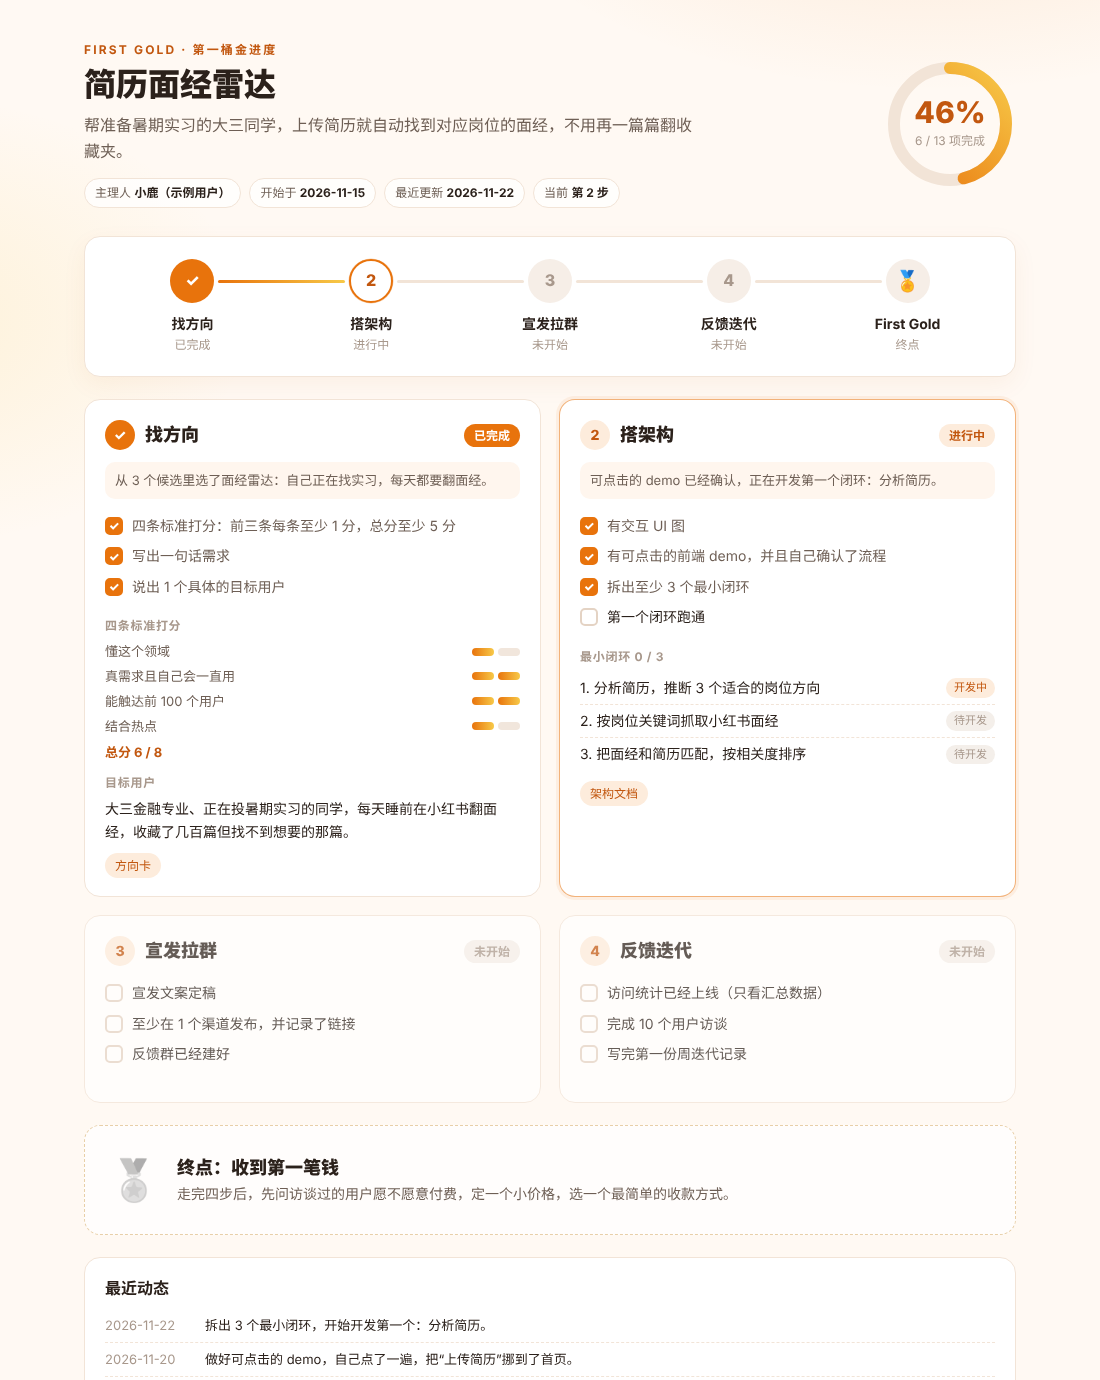
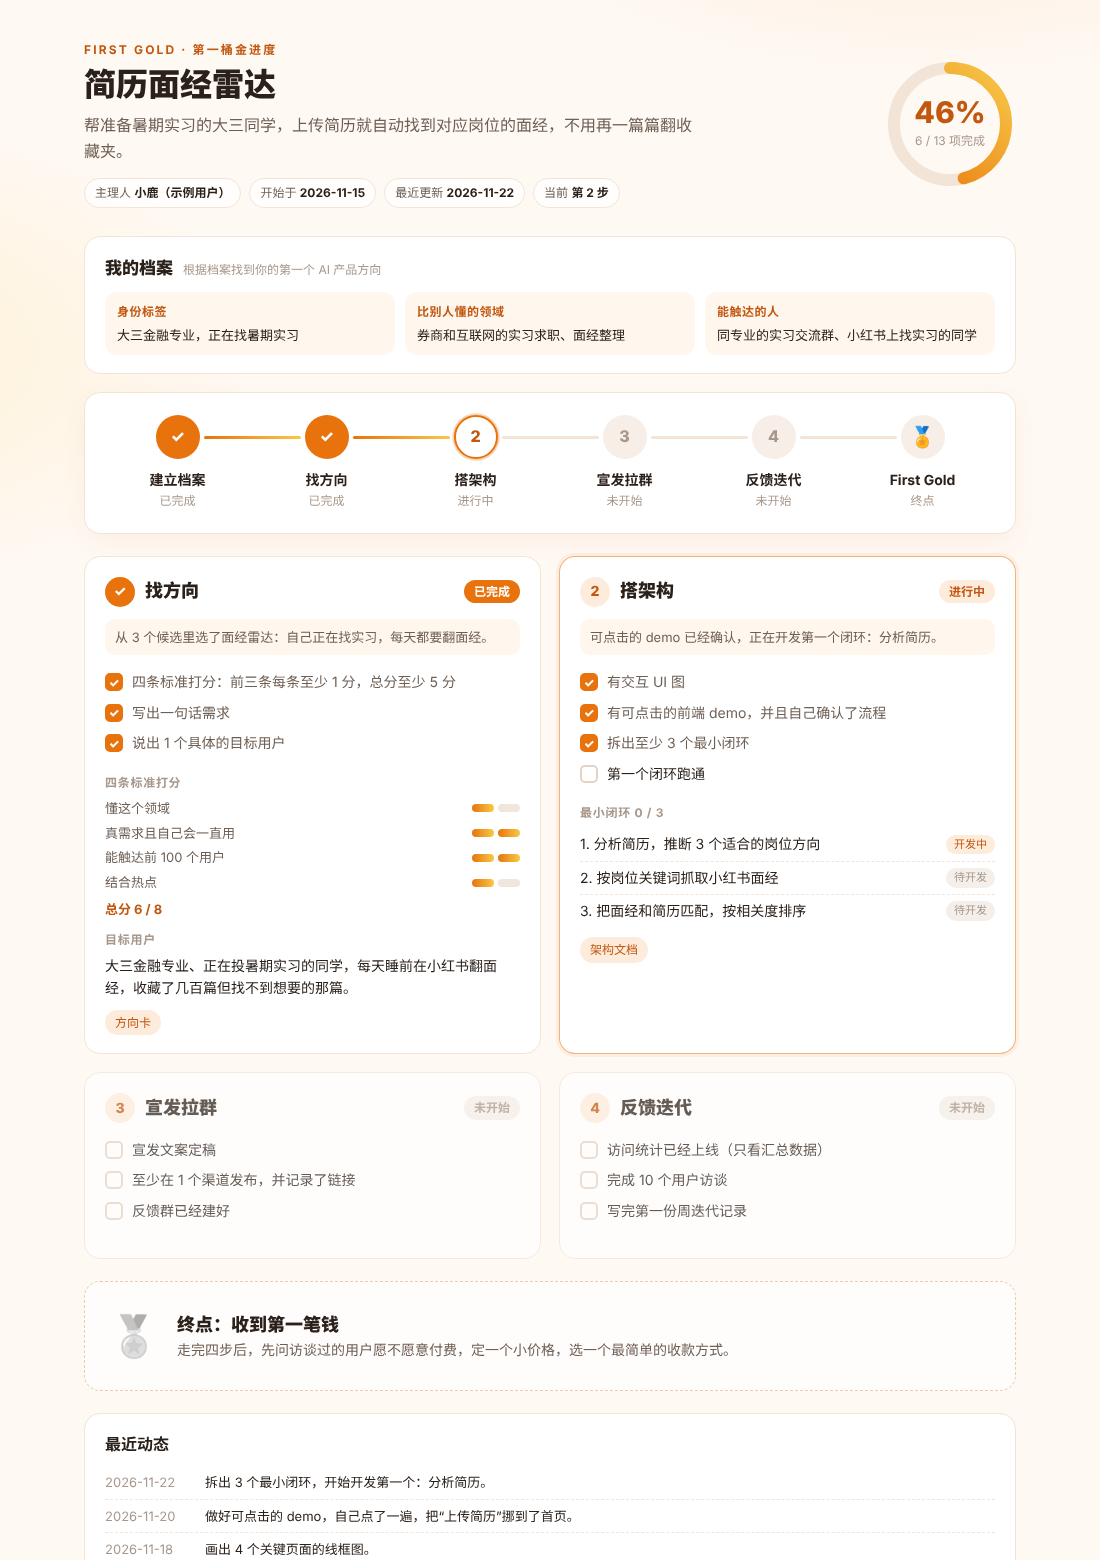
Add step 0 (build your profile) and new slogan
- Slogan: 根据档案找到你的第一个 AI 产品方向
- Open the progress page before asking any questions
- Step 0 builds profile.md; step 1 proposes directions from the profile
- Progress page: "我的档案" card and a 建立档案 node in the journey
- README, schema, example and preview updated

Claude-Session: https://claude.ai/code/session_011SH2MZkqdij7cmQFzhZ7bm

diff --git a/skills/first-gold/assets/progress-template.html b/skills/first-gold/assets/progress-template.html
@@ -39,6 +39,18 @@ h1{font-size:32px;line-height:1.25;margin:6px 0 8px;font-weight:800}
 .ring .num strong{font-size:30px;font-weight:800;color:var(--orange-deep);line-height:1}
 .ring .num span{font-size:12px;color:var(--ink-3);margin-top:4px}
 
+/* profile */
+.profile{background:var(--card);border:1px solid var(--line);border-radius:var(--radius);padding:18px 20px;margin-bottom:18px}
+.profile-head{display:flex;align-items:baseline;gap:10px;margin-bottom:10px;flex-wrap:wrap}
+.profile-head h2{font-size:17px;font-weight:800}
+.profile-head span{font-size:12px;color:var(--ink-3)}
+.profile-grid{display:grid;grid-template-columns:repeat(3,1fr);gap:10px}
+.pf{background:#FFF6EE;border-radius:12px;padding:10px 12px}
+.pf b{display:block;font-size:12px;color:var(--orange-deep);margin-bottom:4px;letter-spacing:.04em}
+.pf p{font-size:13px;color:var(--ink);line-height:1.55}
+.profile.empty{border-style:dashed}
+.profile.empty p.hint{font-size:14px;color:var(--ink-2)}
+
 /* journey */
 .journey{display:flex;align-items:flex-start;background:var(--card);border:1px solid var(--line);border-radius:var(--radius);padding:22px 18px;margin-bottom:22px;box-shadow:0 8px 24px rgba(194,87,15,.06)}
 .node{flex:1;display:flex;flex-direction:column;align-items:center;text-align:center;position:relative;min-width:0}
@@ -129,6 +141,7 @@ footer{text-align:center;font-size:12px;color:var(--ink-3);margin-top:26px}
 
 @media (max-width:760px){
   .grid{grid-template-columns:1fr}
+  .profile-grid{grid-template-columns:1fr}
   header{flex-direction:column-reverse;align-items:flex-start}
   h1{font-size:26px}
   .journey{overflow-x:auto}
@@ -146,13 +159,14 @@ footer{text-align:center;font-size:12px;color:var(--ink-3);margin-top:26px}
   "version": 1,
   "project": "我的第一个 AI 产品",
   "slug": "my-first-product",
-  "one_liner": "还没想好方向？先从第 1 步开始。",
+  "one_liner": "根据档案找到你的第一个 AI 产品方向。",
   "owner": "",
   "started": "",
   "updated": "",
-  "current_step": 1,
+  "current_step": 0,
+  "profile": {"identity": "", "expertise": "", "reach": ""},
   "steps": [
-    {"id": 1, "name": "找方向", "status": "in-progress", "note": "", "checklist": [
+    {"id": 1, "name": "找方向", "status": "not-started", "note": "", "checklist": [
       {"text": "四条标准打分：前三条每条至少 1 分，总分至少 5 分", "done": false},
       {"text": "写出一句话需求", "done": false},
       {"text": "说出 1 个具体的目标用户", "done": false}], "outputs": []},
@@ -201,7 +215,7 @@ footer{text-align:center;font-size:12px;color:var(--ink-3);margin-top:26px}
   var total = 0, done = 0;
   steps.forEach(function(s){ arr(s.checklist).forEach(function(c){ total++; if (c.done) done++; }); });
   var pct = total ? Math.round(done / total * 100) : 0;
-  var cur = D.current_step || 1;
+  var cur = (D.current_step === 0) ? 0 : (D.current_step || 1);
   var fg = D.first_gold || {};
 
   var h = '';
@@ -215,7 +229,7 @@ footer{text-align:center;font-size:12px;color:var(--ink-3);margin-top:26px}
   if (has(D.owner)) h += '<span class="chip">主理人 <b>' + esc(D.owner) + '</b></span>';
   if (has(D.started)) h += '<span class="chip">开始于 <b>' + esc(D.started) + '</b></span>';
   if (has(D.updated)) h += '<span class="chip">最近更新 <b>' + esc(D.updated) + '</b></span>';
-  h += '<span class="chip">当前 <b>' + (cur > 4 ? '冲刺第一桶金' : '第 ' + cur + ' 步') + '</b></span>';
+  h += '<span class="chip">当前 <b>' + (cur > 4 ? '冲刺第一桶金' : (cur === 0 ? '第 0 步 · 建立档案' : '第 ' + cur + ' 步')) + '</b></span>';
   h += '</div></div>';
   h += '<div class="ring"><svg width="132" height="132"><defs><linearGradient id="g" x1="0" y1="0" x2="1" y2="1"><stop offset="0" stop-color="#E8730C"/><stop offset="1" stop-color="#F7C948"/></linearGradient></defs>' +
        '<circle cx="66" cy="66" r="' + R + '" fill="none" stroke="#F2E4D7" stroke-width="12"/>' +
@@ -223,8 +237,21 @@ footer{text-align:center;font-size:12px;color:var(--ink-3);margin-top:26px}
        '<div class="num"><strong>' + pct + '%</strong><span>' + done + ' / ' + total + ' 项完成</span></div></div>';
   h += '</header>';
 
+  // profile
+  var pf = D.profile || {};
+  var hasPf = has(pf.identity) || has(pf.expertise) || has(pf.reach);
+  if (hasPf) {
+    h += '<section class="profile"><div class="profile-head"><h2>我的档案</h2><span>根据档案找到你的第一个 AI 产品方向</span></div><div class="profile-grid">' +
+         '<div class="pf"><b>身份标签</b><p>' + (has(pf.identity) ? esc(pf.identity) : '–') + '</p></div>' +
+         '<div class="pf"><b>比别人懂的领域</b><p>' + (has(pf.expertise) ? esc(pf.expertise) : '–') + '</p></div>' +
+         '<div class="pf"><b>能触达的人</b><p>' + (has(pf.reach) ? esc(pf.reach) : '–') + '</p></div></div></section>';
+  } else {
+    h += '<section class="profile empty"><div class="profile-head"><h2>第 0 步：建立档案</h2></div><p class="hint">先告诉 First Gold 三件事：你的专业或身份标签、你比大多数人都懂的领域、你最容易触达的人。First Gold 会根据档案找到你的第一个 AI 产品方向。</p></section>';
+  }
+
   // journey
   h += '<div class="journey">';
+  h += '<div class="node ' + (hasPf ? 'done' : 'in-progress') + '"><div class="dot">' + (hasPf ? '✓' : '0') + '</div><div class="label">建立档案</div><div class="sub">' + (hasPf ? '已完成' : '进行中') + '</div></div>';
   steps.forEach(function(s){
     var st = s.status || 'not-started';
     var icon = st === 'done' ? '✓' : (st === 'skipped' ? '–' : s.id);
@@ -267,7 +294,7 @@ footer{text-align:center;font-size:12px;color:var(--ink-3);margin-top:26px}
   if (logs.length) { h += '<ul>'; logs.forEach(function(l){ h += '<li><time>' + esc(l.date) + '</time><span>' + esc(l.text) + '</span></li>'; }); h += '</ul>'; }
   else h += '<p class="empty">还没有记录。和 First Gold 聊完第一轮后，这里会出现你的进展。</p>';
   h += '</div>';
-  h += '<footer>由 First Gold Skill 生成 · 每轮对话后自动更新</footer>';
+  h += '<footer>First Gold · 根据档案找到你的第一个 AI 产品方向 · 每轮对话后自动更新</footer>';
 
   document.getElementById('app').innerHTML = h;
 

diff --git a/examples/mianjing-radar/progress.html b/examples/mianjing-radar/progress.html
@@ -39,6 +39,18 @@ h1{font-size:32px;line-height:1.25;margin:6px 0 8px;font-weight:800}
 .ring .num strong{font-size:30px;font-weight:800;color:var(--orange-deep);line-height:1}
 .ring .num span{font-size:12px;color:var(--ink-3);margin-top:4px}
 
+/* profile */
+.profile{background:var(--card);border:1px solid var(--line);border-radius:var(--radius);padding:18px 20px;margin-bottom:18px}
+.profile-head{display:flex;align-items:baseline;gap:10px;margin-bottom:10px;flex-wrap:wrap}
+.profile-head h2{font-size:17px;font-weight:800}
+.profile-head span{font-size:12px;color:var(--ink-3)}
+.profile-grid{display:grid;grid-template-columns:repeat(3,1fr);gap:10px}
+.pf{background:#FFF6EE;border-radius:12px;padding:10px 12px}
+.pf b{display:block;font-size:12px;color:var(--orange-deep);margin-bottom:4px;letter-spacing:.04em}
+.pf p{font-size:13px;color:var(--ink);line-height:1.55}
+.profile.empty{border-style:dashed}
+.profile.empty p.hint{font-size:14px;color:var(--ink-2)}
+
 /* journey */
 .journey{display:flex;align-items:flex-start;background:var(--card);border:1px solid var(--line);border-radius:var(--radius);padding:22px 18px;margin-bottom:22px;box-shadow:0 8px 24px rgba(194,87,15,.06)}
 .node{flex:1;display:flex;flex-direction:column;align-items:center;text-align:center;position:relative;min-width:0}
@@ -129,6 +141,7 @@ footer{text-align:center;font-size:12px;color:var(--ink-3);margin-top:26px}
 
 @media (max-width:760px){
   .grid{grid-template-columns:1fr}
+  .profile-grid{grid-template-columns:1fr}
   header{flex-direction:column-reverse;align-items:flex-start}
   h1{font-size:26px}
   .journey{overflow-x:auto}
@@ -151,6 +164,11 @@ footer{text-align:center;font-size:12px;color:var(--ink-3);margin-top:26px}
   "started": "2026-11-15",
   "updated": "2026-11-22",
   "current_step": 2,
+  "profile": {
+    "identity": "大三金融专业，正在找暑期实习",
+    "expertise": "券商和互联网的实习求职、面经整理",
+    "reach": "同专业的实习交流群、小红书上找实习的同学"
+  },
   "steps": [
     {
       "id": 1,
@@ -349,7 +367,7 @@ footer{text-align:center;font-size:12px;color:var(--ink-3);margin-top:26px}
   var total = 0, done = 0;
   steps.forEach(function(s){ arr(s.checklist).forEach(function(c){ total++; if (c.done) done++; }); });
   var pct = total ? Math.round(done / total * 100) : 0;
-  var cur = D.current_step || 1;
+  var cur = (D.current_step === 0) ? 0 : (D.current_step || 1);
   var fg = D.first_gold || {};
 
   var h = '';
@@ -363,7 +381,7 @@ footer{text-align:center;font-size:12px;color:var(--ink-3);margin-top:26px}
   if (has(D.owner)) h += '<span class="chip">主理人 <b>' + esc(D.owner) + '</b></span>';
   if (has(D.started)) h += '<span class="chip">开始于 <b>' + esc(D.started) + '</b></span>';
   if (has(D.updated)) h += '<span class="chip">最近更新 <b>' + esc(D.updated) + '</b></span>';
-  h += '<span class="chip">当前 <b>' + (cur > 4 ? '冲刺第一桶金' : '第 ' + cur + ' 步') + '</b></span>';
+  h += '<span class="chip">当前 <b>' + (cur > 4 ? '冲刺第一桶金' : (cur === 0 ? '第 0 步 · 建立档案' : '第 ' + cur + ' 步')) + '</b></span>';
   h += '</div></div>';
   h += '<div class="ring"><svg width="132" height="132"><defs><linearGradient id="g" x1="0" y1="0" x2="1" y2="1"><stop offset="0" stop-color="#E8730C"/><stop offset="1" stop-color="#F7C948"/></linearGradient></defs>' +
        '<circle cx="66" cy="66" r="' + R + '" fill="none" stroke="#F2E4D7" stroke-width="12"/>' +
@@ -371,8 +389,21 @@ footer{text-align:center;font-size:12px;color:var(--ink-3);margin-top:26px}
        '<div class="num"><strong>' + pct + '%</strong><span>' + done + ' / ' + total + ' 项完成</span></div></div>';
   h += '</header>';
 
+  // profile
+  var pf = D.profile || {};
+  var hasPf = has(pf.identity) || has(pf.expertise) || has(pf.reach);
+  if (hasPf) {
+    h += '<section class="profile"><div class="profile-head"><h2>我的档案</h2><span>根据档案找到你的第一个 AI 产品方向</span></div><div class="profile-grid">' +
+         '<div class="pf"><b>身份标签</b><p>' + (has(pf.identity) ? esc(pf.identity) : '–') + '</p></div>' +
+         '<div class="pf"><b>比别人懂的领域</b><p>' + (has(pf.expertise) ? esc(pf.expertise) : '–') + '</p></div>' +
+         '<div class="pf"><b>能触达的人</b><p>' + (has(pf.reach) ? esc(pf.reach) : '–') + '</p></div></div></section>';
+  } else {
+    h += '<section class="profile empty"><div class="profile-head"><h2>第 0 步：建立档案</h2></div><p class="hint">先告诉 First Gold 三件事：你的专业或身份标签、你比大多数人都懂的领域、你最容易触达的人。First Gold 会根据档案找到你的第一个 AI 产品方向。</p></section>';
+  }
+
   // journey
   h += '<div class="journey">';
+  h += '<div class="node ' + (hasPf ? 'done' : 'in-progress') + '"><div class="dot">' + (hasPf ? '✓' : '0') + '</div><div class="label">建立档案</div><div class="sub">' + (hasPf ? '已完成' : '进行中') + '</div></div>';
   steps.forEach(function(s){
     var st = s.status || 'not-started';
     var icon = st === 'done' ? '✓' : (st === 'skipped' ? '–' : s.id);
@@ -415,7 +446,7 @@ footer{text-align:center;font-size:12px;color:var(--ink-3);margin-top:26px}
   if (logs.length) { h += '<ul>'; logs.forEach(function(l){ h += '<li><time>' + esc(l.date) + '</time><span>' + esc(l.text) + '</span></li>'; }); h += '</ul>'; }
   else h += '<p class="empty">还没有记录。和 First Gold 聊完第一轮后，这里会出现你的进展。</p>';
   h += '</div>';
-  h += '<footer>由 First Gold Skill 生成 · 每轮对话后自动更新</footer>';
+  h += '<footer>First Gold · 根据档案找到你的第一个 AI 产品方向 · 每轮对话后自动更新</footer>';
 
   document.getElementById('app').innerHTML = h;
 

diff --git a/README.md b/README.md
@@ -1,8 +1,10 @@
 # First Gold · 用 AI 赚到你的第一桶金
 
-First Gold 是一个 AI Agent Skill：它像一个教练，陪你从 0 做出第一个**有人用、能收到第一笔钱**的 AI 小产品。
+> **根据档案找到你的第一个 AI 产品方向**
 
-它不会替你做决定，而是一步一步问你、给你例子、帮你守住每一步的标准，并生成一个 **HTML 进度页**，让你随时看到自己走到了哪里。
+First Gold 是一个 AI Agent Skill：它像一个教练，先了解你是谁、懂什么、能找到谁，再陪你从 0 做出第一个**有人用、能收到第一笔钱**的 AI 小产品。
+
+它不会替你做决定，而是一步一步问你、给你例子、帮你守住每一步的标准。从第一页开始就会生成一个 **HTML 进度页**，让你随时看到自己走到了哪里。
 
 ![First Gold 进度页](docs/preview.png)
 
@@ -14,11 +16,12 @@ First Gold 是一个 AI Agent Skill：它像一个教练，陪你从 0 做出第
 
 不需要会写代码，会和 AI 聊天就行。
 
-## 四步走到第一桶金
+## 先建档案，再四步走到第一桶金
 
 | 步骤 | 你会做出什么 | 过关标准 |
 |---|---|---|
-| ① 找方向 | 一张方向卡：一句话需求 + 四条标准打分 | 懂这个领域、真需求且自己会一直用、能触达前 100 个用户，总分至少 5/8 |
+| ⓪ 建立档案 | 你的身份标签、比别人懂的领域、能触达的人 | 三项都写清楚；之后的方向都从档案出发 |
+| ① 根据档案找方向 | 一张方向卡：一句话需求 + 四条标准打分 | 懂这个领域、真需求且自己会一直用、能触达前 100 个用户，总分至少 5/8 |
 | ② 搭架构 | UI 图 → 可点击的 demo → 最小闭环 | 先确认交互，再开发；拆出至少 3 个闭环，第一个跑通 |
 | ③ 宣发拉群 | 一条宣发文案 + 一个反馈群 | 文案定稿、至少在 1 个渠道发布、群已建好 |
 | ④ 反馈迭代 | 访问统计 + 10 个用户访谈 + 每周迭代 | 统计上线、访谈做满 10 个、写完第一份周迭代 |
@@ -41,7 +44,7 @@ npx skills add JoyceJin0913/first-gold -g
 ## 使用
 
 ```bash
-/first-gold                     # 开始一个新项目
+/first-gold                     # 开始：先建档案，再找方向（进度页马上打开）
 /first-gold 简历面经雷达          # 用一个项目名开始
 /first-gold --resume            # 接着上次继续
 /first-gold --step 3            # 直接跳到某一步
@@ -56,7 +59,7 @@ First Gold 会在你当前的工作目录里建一个 `first-gold/` 文件夹：
 
 ```
 first-gold/
-├── profile.md            # 你是谁：专业、身份标签、能触达的人（下一个项目也能复用）
+├── profile.md            # 你的档案：身份标签、懂的领域、能触达的人（下一个项目也能复用）
 └── {项目名}/
     ├── progress.json     # 进度数据
     ├── progress.html     # 进度页，双击就能打开

diff --git a/skills/first-gold/references/progress-schema.md b/skills/first-gold/references/progress-schema.md
@@ -12,7 +12,8 @@
 | `one_liner` | 一句话需求：帮谁在什么场景解决什么问题 |
 | `owner` | 用户的称呼 |
 | `started` / `updated` | 开始日期 / 最近更新日期，格式 `YYYY-MM-DD` |
-| `current_step` | 当前所在步骤，1–4；四步都完成后写 `5` |
+| `current_step` | 当前所在步骤：`0` = 建立档案，1–4 = 四步，四步都完成后写 `5` |
+| `profile` | 第 0 步的档案摘要（从 `profile.md` 复制）：`identity` 身份标签、`expertise` 比别人懂的领域、`reach` 能触达的人，各写一两句话 |
 | `steps[]` | 四个步骤，顺序固定，见下方 |
 | `direction` | 第 1 步：四条标准的打分（每条 0–2，未打分写 `null`）和目标用户 |
 | `loops[]` | 第 2 步：最小闭环，`status` 为 `todo` / `doing` / `done` |
@@ -46,10 +47,11 @@
   "owner": "",
   "started": "YYYY-MM-DD",
   "updated": "YYYY-MM-DD",
-  "current_step": 1,
+  "current_step": 0,
+  "profile": {"identity": "", "expertise": "", "reach": ""},
   "steps": [
     {
-      "id": 1, "name": "找方向", "status": "in-progress", "note": "",
+      "id": 1, "name": "找方向", "status": "not-started", "note": "",
       "checklist": [
         {"text": "四条标准打分：前三条每条至少 1 分，总分至少 5 分", "done": false},
         {"text": "写出一句话需求", "done": false},
@@ -106,6 +108,7 @@
 
 ## 更新规则
 
+- 档案建好后，把三项写进 `profile`，第 1 步的 `status` 改为 `in-progress`，`current_step` 改为 1。
 - 一个步骤的清单全部 `done` 后，把它的 `status` 改为 `done`，下一步改为 `in-progress`，`current_step` 加 1。
 - 用户要求跳过时，把 `status` 改为 `skipped`，在 `note` 里写原因。
 - 每轮都要更新 `updated`，并在 `log` 里追加一行。

diff --git a/skills/first-gold/references/step1-direction.md b/skills/first-gold/references/step1-direction.md
@@ -57,7 +57,7 @@
 
 1. 先看 profile：“你说你懂 ___，身边有很多 ___，有没有什么事是你和他们经常抱怨的？”
 2. 让用户先说 1–3 个想法，不急着评价。
-3. 想不出来时，再用上面的切入角度和热点思路，各给一个例子启发。
+3. 想不出来时，根据档案给出 3 个候选：每个都写明它用到了档案里的哪个优势、能触达哪群人，再结合上面的切入角度和热点思路。
 4. 一起给每个候选打分，用户选一个。
 5. 追问三个问题，把方向落到具体：
    - 用一句话说，这个产品帮谁解决什么问题？
